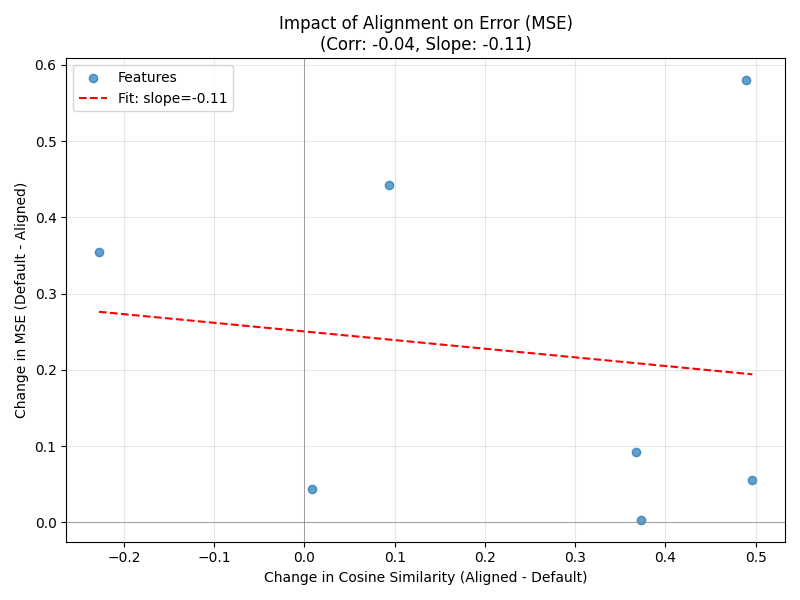
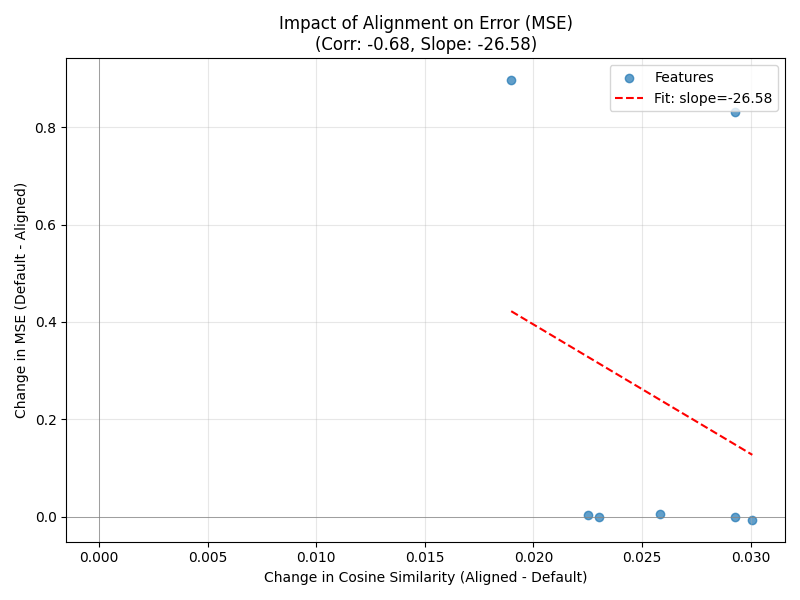
implemented rope attention layer wise

diff --git a/quantitative_freq_analysis.py b/quantitative_freq_analysis.py
@@ -36,6 +36,30 @@ class SineSPE(nn.Module):
         
         return encoding.unsqueeze(0) # [1, max_len, d_model]
 
+class RoPEGenerator(nn.Module):
+    def __init__(self, d_model, max_len=5000, base_freq=10000.0, n_heads=8):
+        super().__init__()
+        self.d_model = d_model
+        self.max_len = max_len
+        self.base_freq = base_freq
+        self.n_heads = n_heads
+        self.head_dim = d_model // n_heads
+        
+    def generate(self):
+        # theta_i = base^(-2i/d_head)
+        theta = 1.0 / (self.base_freq ** (torch.arange(0, self.head_dim, 2).float() / self.head_dim))
+        seq_idx = torch.arange(self.max_len).float()
+        # Outer product to get angles
+        idx_theta = torch.einsum('n,d->nd', seq_idx, theta)
+        # RoPE uses both cos and sin
+        cos_waves = torch.cos(idx_theta)
+        sin_waves = torch.sin(idx_theta)
+        # Concatenate to form the "features" of the PE
+        head_waves = torch.cat([cos_waves, sin_waves], dim=1) 
+        # Repeat for all heads to match d_model size
+        full_waves = head_waves.repeat(1, self.n_heads)
+        return full_waves.unsqueeze(0)
+
 # --- 2. Helper Functions ---
 def compute_psd(data, fs=1.0):
     """Compute Power Spectral Density using Periodogram."""
@@ -43,10 +67,14 @@ def compute_psd(data, fs=1.0):
     freqs, psd = signal.periodogram(data, fs=fs, detrend='linear')
     return freqs, psd
 
-def get_pe_spectrum_norm(d_model, seq_len, period):
-    """Helper to generate normalized PE spectrum for a given period."""
-    pe_layer = SineSPE(d_model, max_len=seq_len, period=period)
-    pe_matrix = pe_layer.sine.squeeze(0).numpy() # [seq_len, d_model]
+def get_pe_spectrum_norm(d_model, seq_len, period=None, pe_type='sinespe', base_freq=10000.0, n_heads=8):
+    """Helper to generate normalized PE spectrum."""
+    if pe_type == 'rope':
+        gen = RoPEGenerator(d_model, max_len=seq_len, base_freq=base_freq, n_heads=n_heads)
+        pe_matrix = gen.generate().squeeze(0).numpy()
+    else:
+        pe_layer = SineSPE(d_model, max_len=seq_len, period=period)
+        pe_matrix = pe_layer.sine.squeeze(0).numpy() # [seq_len, d_model]
     
     pe_psd_sum = None
     freqs = None
@@ -61,12 +89,16 @@ def get_pe_spectrum_norm(d_model, seq_len, period):
     # Normalize PE Spectrum
     return pe_psd_sum / (np.sum(pe_psd_sum) + 1e-9), freqs
 
-def analyze_alignment(dataset_path, seq_len, d_model, period=None, limit_cols=None, metrics_file=None, baseline_metrics_file=None):
+def analyze_alignment(dataset_path, seq_len, d_model, period=None, limit_cols=None, metrics_file=None, baseline_metrics_file=None, pe_type='sinespe', base_freq=10000.0, n_heads=8):
     print(f"\n=== Quantitative Frequency Analysis ===")
     print(f"Dataset: {dataset_path}")
-    print(f"Settings: seq_len={seq_len}, d_model={d_model}, period={period if period else 'None (Absolute)'}")
+    print(f"Settings: seq_len={seq_len}, d_model={d_model}, pe_type={pe_type}")
+    if pe_type == 'sinespe':
+        print(f"Period: {period if period else 'None (Absolute)'}")
+    elif pe_type == 'rope':
+        print(f"Base Freq: {base_freq}, n_heads: {n_heads}")
     
-    if period is not None and seq_len < period:
+    if pe_type == 'sinespe' and period is not None and seq_len < period:
         print(f"Warning: seq_len ({seq_len}) < period ({period}). The modulo operation has no effect. Result will be identical to Absolute PE.")
     
     if metrics_file: print(f"Loading metrics from: {metrics_file}")
@@ -94,11 +126,15 @@ def analyze_alignment(dataset_path, seq_len, d_model, period=None, limit_cols=No
     
     # --- Step A: Generate PE Spectrum ---
     # 1. Current/Aligned PE
-    pe_psd_norm, freqs = get_pe_spectrum_norm(d_model, seq_len, period)
+    pe_psd_norm, freqs = get_pe_spectrum_norm(d_model, seq_len, period, pe_type, base_freq, n_heads)
 
     # 2. Default/Absolute PE (for comparison)
-    if period is not None:
-        pe_psd_norm_def, _ = get_pe_spectrum_norm(d_model, seq_len, None)
+    pe_psd_norm_def = None
+    if pe_type == 'sinespe' and period is not None:
+        pe_psd_norm_def, _ = get_pe_spectrum_norm(d_model, seq_len, None, 'sinespe')
+    elif pe_type == 'rope':
+        # Compare against default base_freq 10000.0
+        pe_psd_norm_def, _ = get_pe_spectrum_norm(d_model, seq_len, None, 'rope', 10000.0, n_heads)
 
     # --- Step B: Analyze Data Spectrum ---
     results = []
@@ -144,7 +180,7 @@ def analyze_alignment(dataset_path, seq_len, d_model, period=None, limit_cols=No
         }
 
         # 2. Cosine Similarity (Default Config) - if comparing
-        if period is not None:
+        if pe_psd_norm_def is not None:
             cos_sim_def = 1 - cosine(col_psd_norm, pe_psd_norm_def)
             entry['cosine_sim_default'] = cos_sim_def
             entry['delta_cosine'] = cos_sim - cos_sim_def # Positive = Aligned is better match
@@ -170,7 +206,7 @@ def analyze_alignment(dataset_path, seq_len, d_model, period=None, limit_cols=No
                 results_df['MSE_Aligned'] = curr_mse
                 results_df['MAE_Aligned'] = curr_mae
 
-            if baseline_metrics_file and period is not None:
+            if baseline_metrics_file and pe_psd_norm_def is not None:
                 # Load Baseline Metrics
                 with open(baseline_metrics_file, 'r') as f:
                     b_data = json.load(f)
@@ -279,10 +315,13 @@ if __name__ == "__main__":
     parser.add_argument('--seq_len', type=int, default=96)
     parser.add_argument('--d_model', type=int, default=512)
     parser.add_argument('--period', type=int, default=None, help='Period for SineSPE. Leave empty for Absolute.')
+    parser.add_argument('--pe_type', type=str, default='sinespe', choices=['sinespe', 'rope'], help='Type of PE to analyze')
+    parser.add_argument('--base_freq', type=float, default=10000.0, help='Base frequency for RoPE')
+    parser.add_argument('--n_heads', type=int, default=8, help='Number of heads for RoPE')
     parser.add_argument('--limit_cols', type=int, default=10, help='Limit number of columns to analyze (default: 10). Set to 0 for all.')
     parser.add_argument('--metrics_file', type=str, default=None, help='Path to JSON file with model errors (from extract_results.py)')
     parser.add_argument('--baseline_metrics_file', type=str, default=None, help='Path to JSON file with baseline model errors')
     args = parser.parse_args()
     
     path = f'dataset/forecasting/{args.dataset}.csv'
-    analyze_alignment(path, args.seq_len, args.d_model, args.period, args.limit_cols, args.metrics_file, args.baseline_metrics_file)
+    analyze_alignment(path, args.seq_len, args.d_model, args.period, args.limit_cols, args.metrics_file, args.baseline_metrics_file, args.pe_type, args.base_freq, args.n_heads)

diff --git a/ts_benchmark/baselines/tst/tst.py b/ts_benchmark/baselines/tst/tst.py
@@ -2,7 +2,8 @@ from ts_benchmark.baselines.deep_forecasting_model_base import DeepForecastingMo
 import torch
 import torch.nn as nn
 from ts_benchmark.baselines.tst.utils.pos_encoding import get_pos_encoder
-
+from ts_benchmark.baselines.tst.utils.attention import RoPEMultiHeadAttention
+import torch.nn.functional as F
 
 # Model hyperparameters
 MODEL_HYPER_PARAMS = {
@@ -76,6 +77,32 @@ class RevIN(nn.Module):
         x = x + self.mean
         return x
 
+class RoPEEncoderLayer(nn.Module):
+    """Transformer Encoder Layer using RoPE Attention."""
+    def __init__(self, d_model, nhead, dim_feedforward=2048, dropout=0.1, activation="gelu", base_freq=10000.0):
+        super().__init__()
+        self.self_attn = RoPEMultiHeadAttention(d_model, nhead, dropout, base_freq)
+        
+        self.linear1 = nn.Linear(d_model, dim_feedforward)
+        self.dropout = nn.Dropout(dropout)
+        self.linear2 = nn.Linear(dim_feedforward, d_model)
+
+        self.norm1 = nn.LayerNorm(d_model)
+        self.norm2 = nn.LayerNorm(d_model)
+        self.dropout1 = nn.Dropout(dropout)
+        self.dropout2 = nn.Dropout(dropout)
+
+        self.activation = F.gelu if activation == "gelu" else F.relu
+
+    def forward(self, src):
+        src2 = self.self_attn(src)
+        src = src + self.dropout1(src2)
+        src = self.norm1(src)
+        src2 = self.linear2(self.dropout(self.activation(self.linear1(src))))
+        src = src + self.dropout2(src2)
+        src = self.norm2(src)
+        return src
+
 class SimplifiedTST(nn.Module):
     """
     A simplified, self-contained, and robust Transformer model for forecasting.
@@ -97,36 +124,47 @@ class SimplifiedTST(nn.Module):
         enc_in = 1 if self.channel_independence else config.enc_in
         self.project_inp = nn.Linear(enc_in, config.d_model)
 
-        pos_encoder_class = get_pos_encoder(config.pos_encoding)
+        # --- Positional Encoding & Encoder Setup ---
         if config.pos_encoding == 'convspe':
+            pos_encoder_class = get_pos_encoder(config.pos_encoding)
             pos_encoder_args = {
                 "num_heads": config.n_heads,
                 "in_features": config.d_model,
             }
             if hasattr(config, 'kernel_size'):
                 pos_encoder_args['kernel_size'] = config.kernel_size
+            self.pos_enc = pos_encoder_class(**pos_encoder_args)
+            encoder_layer = nn.TransformerEncoderLayer(
+                d_model=config.d_model, nhead=config.n_heads, dim_feedforward=config.dim_feedforward,
+                dropout=config.dropout, activation='gelu', batch_first=True
+            )
+            self.transformer_encoder = nn.TransformerEncoder(encoder_layer, num_layers=config.num_layers)
+
+        elif config.pos_encoding == 'rotary':
+            # RoPE is applied inside the attention layer, so no input PE is needed.
+            self.pos_enc = nn.Identity()
+            base_freq = getattr(config, 'base_freq', 10000.0)
+            
+            # Use custom RoPE Encoder Layers
+            layers = [RoPEEncoderLayer(config.d_model, config.n_heads, config.dim_feedforward, 
+                                       config.dropout, 'gelu', base_freq) 
+                      for _ in range(config.num_layers)]
+            self.transformer_encoder = nn.Sequential(*layers)
+
         else:
+            pos_encoder_class = get_pos_encoder(config.pos_encoding)
             pos_encoder_args = {
-                "d_model": config.d_model,
-                "dropout": config.dropout,
-                "max_len": config.seq_len,
+                "d_model": config.d_model, "dropout": config.dropout, "max_len": config.seq_len,
             }
-        # If using SineSPE and a period is provided in the config, add it to the arguments.
-        if config.pos_encoding == 'sinespe' and hasattr(config, 'period') and config.period > 1:
-            pos_encoder_args['period'] = config.period
-        # If using Rotary and base_freq is provided in the config, add it to the arguments.
-        if config.pos_encoding == 'rotary' and hasattr(config, 'base_freq'):
-            pos_encoder_args['base_freq'] = config.base_freq
-        self.pos_enc = pos_encoder_class(**pos_encoder_args)
-        encoder_layer = nn.TransformerEncoderLayer(
-            d_model=config.d_model,
-            nhead=config.n_heads,
-            dim_feedforward=config.dim_feedforward,
-            dropout=config.dropout,
-            activation='gelu',
-            batch_first=True
-        )
-        self.transformer_encoder = nn.TransformerEncoder(encoder_layer, num_layers=config.num_layers)
+            if config.pos_encoding == 'sinespe' and hasattr(config, 'period') and config.period > 1:
+                pos_encoder_args['period'] = config.period
+            
+            self.pos_enc = pos_encoder_class(**pos_encoder_args)
+            encoder_layer = nn.TransformerEncoderLayer(
+                d_model=config.d_model, nhead=config.n_heads, dim_feedforward=config.dim_feedforward,
+                dropout=config.dropout, activation='gelu', batch_first=True
+            )
+            self.transformer_encoder = nn.TransformerEncoder(encoder_layer, num_layers=config.num_layers)
         
         # If CI is enabled, the head outputs 1 value (per channel). Otherwise, it outputs c_out.
         head_out = 1 if self.channel_independence else config.c_out

diff --git a/ts_benchmark/baselines/tst/utils/attention.py b/ts_benchmark/baselines/tst/utils/attention.py
@@ -1,8 +1,28 @@
 import torch
 import torch.nn as nn
+import torch.nn.functional as F
 from einops import rearrange
 import pandas as pd
 import math
+from .pos_encoding import get_relative_positions
+
+class TUPEConfig:
+    num_layers: int = 6
+    num_heads: int = 8
+    d_model: int = 128
+    d_head: int = 0
+    max_len: int = 256
+    dropout: float = 0.1
+    expansion_factor: int = 1
+    relative_bias: bool = True
+    bidirectional_bias: bool = True
+    num_buckets: int = 32
+    max_distance: int = 128
+
+    def __post_init__(self):
+        d_head, remainder = divmod(self.d_model, self.num_heads)
+        assert remainder == 0, "`d_model` should be divisible by `num_heads`"
+        self.d_head = d_head
 
 class Attention(nn.Module):
     def __init__(self, emb_size, num_heads, dropout):
@@ -273,3 +293,76 @@ class TPS_SelfAttention(nn.Module):
         output = self.dropout(output)
 
         return output, weighted_attn
+
+class RoPEMultiHeadAttention(nn.Module):
+    def __init__(self, d_model, num_heads, dropout=0.1, base_freq=10000.0):
+        super().__init__()
+        self.d_model = d_model
+        self.num_heads = num_heads
+        self.head_dim = d_model // num_heads
+        
+        assert self.head_dim * num_heads == d_model, "d_model must be divisible by num_heads"
+
+        self.q_proj = nn.Linear(d_model, d_model, bias=False)
+        self.k_proj = nn.Linear(d_model, d_model, bias=False)
+        self.v_proj = nn.Linear(d_model, d_model, bias=False)
+        self.out_proj = nn.Linear(d_model, d_model, bias=False)
+        self.dropout = nn.Dropout(dropout)
+        
+        # Precompute frequencies for RoPE: theta_i = base^(-2i/d)
+        theta = 1.0 / (base_freq ** (torch.arange(0, self.head_dim, 2).float() / self.head_dim))
+        self.register_buffer('theta', theta)
+
+    def apply_rope(self, x):
+        # x: [batch, seq_len, num_heads, head_dim]
+        b, seq_len, h, d = x.shape
+        
+        # Create position indices [0, 1, ..., seq_len-1]
+        pos = torch.arange(seq_len, device=x.device).float()
+        
+        # Outer product to get angles: pos_m * theta_i -> [seq_len, d/2]
+        angles = torch.einsum('m, i -> mi', pos, self.theta)
+        
+        # Reshape x to [b, seq_len, h, d/2, 2] to treat adjacent pairs (0,1), (2,3) etc.
+        x_pairs = x.view(b, seq_len, h, d // 2, 2)
+        
+        # Prepare sin/cos. Shape [1, seq_len, 1, d/2, 1] for broadcasting
+        sin = torch.sin(angles).view(1, seq_len, 1, d // 2, 1)
+        cos = torch.cos(angles).view(1, seq_len, 1, d // 2, 1)
+        
+        # Rotation: x' = x cos - y sin, y' = x sin + y cos
+        x_new = torch.zeros_like(x_pairs)
+        x_new[..., 0] = x_pairs[..., 0] * cos.squeeze(-1) - x_pairs[..., 1] * sin.squeeze(-1)
+        x_new[..., 1] = x_pairs[..., 0] * sin.squeeze(-1) + x_pairs[..., 1] * cos.squeeze(-1)
+        
+        return x_new.view(b, seq_len, h, d)
+
+    def forward(self, x, mask=None):
+        B, L, D = x.shape
+        
+        q = self.q_proj(x).view(B, L, self.num_heads, self.head_dim)
+        k = self.k_proj(x).view(B, L, self.num_heads, self.head_dim)
+        v = self.v_proj(x).view(B, L, self.num_heads, self.head_dim)
+        
+        # Apply RoPE to Queries and Keys
+        q = self.apply_rope(q)
+        k = self.apply_rope(k)
+        
+        # Transpose to [B, H, L, D_head] for attention
+        q = q.permute(0, 2, 1, 3)
+        k = k.permute(0, 2, 1, 3)
+        v = v.permute(0, 2, 1, 3)
+        
+        # Scaled Dot Product Attention
+        scores = torch.matmul(q, k.transpose(-2, -1)) / math.sqrt(self.head_dim)
+        
+        if mask is not None:
+            scores = scores.masked_fill(mask == 0, float('-inf'))
+            
+        attn = torch.softmax(scores, dim=-1)
+        attn = self.dropout(attn)
+        
+        out = torch.matmul(attn, v)
+        out = out.permute(0, 2, 1, 3).contiguous().view(B, L, D)
+        
+        return self.out_proj(out)
